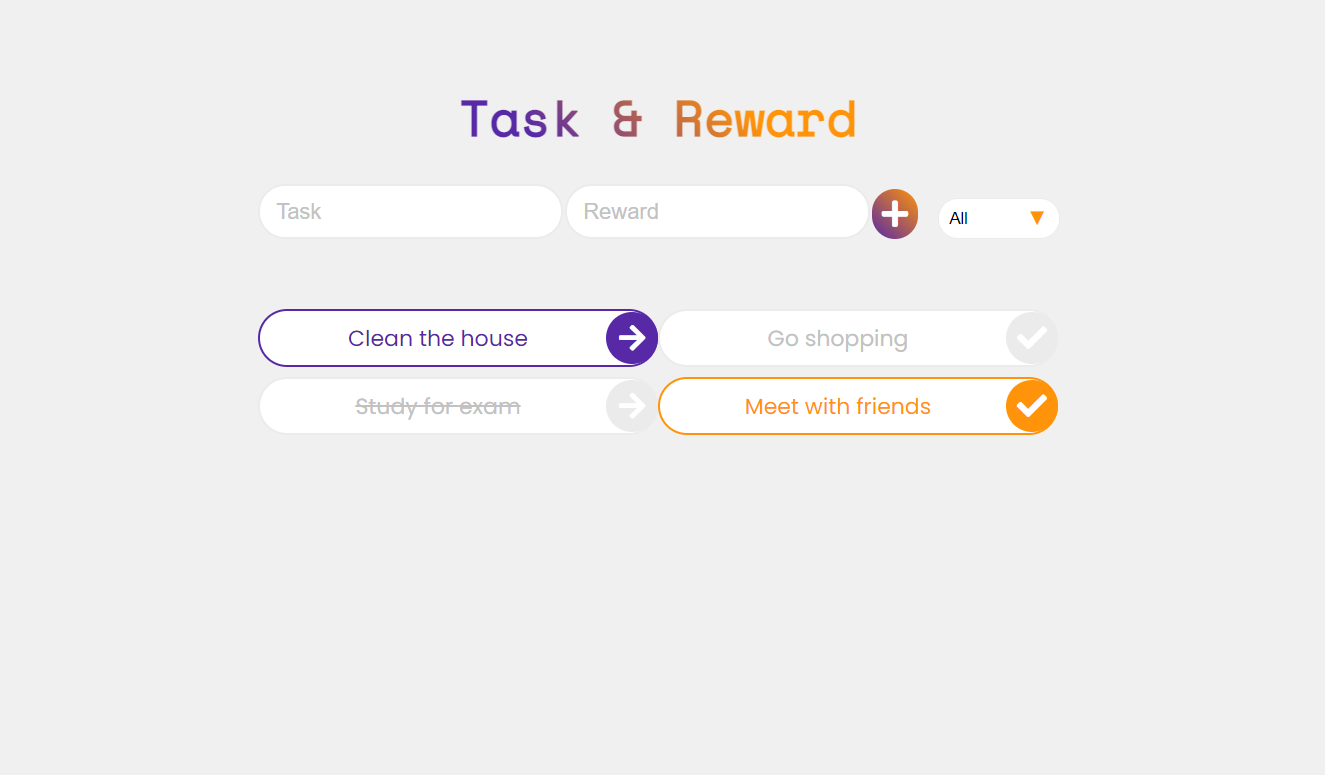
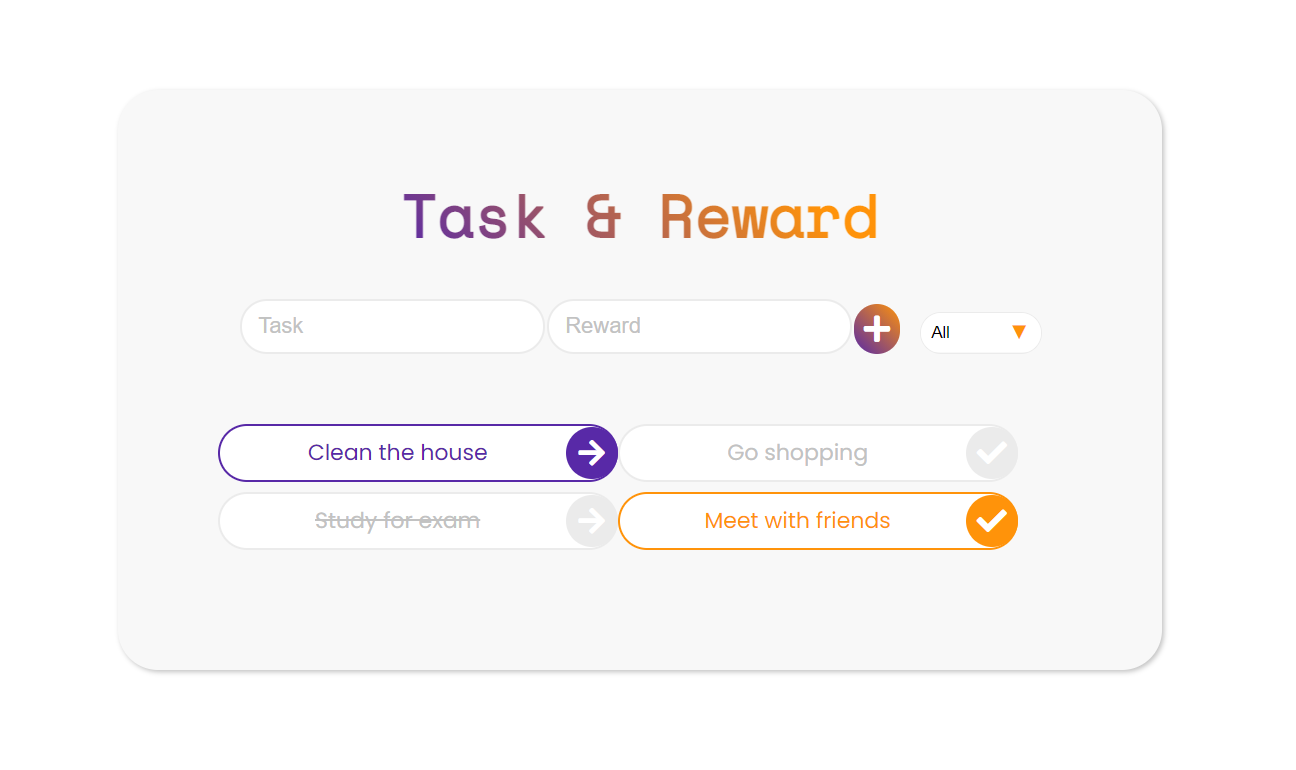
styles change

diff --git a/index.html b/index.html
@@ -21,55 +21,56 @@
   </head>
 
   <body>
-    <h1>Task & Reward</h1>
-    <form>
-      <input
-        type="text"
-        name="inputTask"
-        placeholder="Task"
-        class="inputTask"
-      />
+    <div class="container">
+      <h1>Task & Reward</h1>
+      <form>
+        <input
+          type="text"
+          name="inputTask"
+          placeholder="Task"
+          class="inputTask"
+        />
 
-      <input
-        type="text"
-        name="inputAward"
-        placeholder="Reward"
-        class="inputReward"
-      />
+        <input
+          type="text"
+          name="inputAward"
+          placeholder="Reward"
+          class="inputReward"
+        />
 
-      <button type="submit"><i class="fas fa-plus"></i></button>
-      <div class="selectContainer">
-        <select name="filter" class="filter">
-          <option value="All">All</option>
-          <option value="Tasks">Tasks</option>
-          <option value="Rewards">Rewards</option>
-        </select>
-      </div>
-    </form>
+        <button type="submit"><i class="fas fa-plus"></i></button>
+        <div class="selectContainer">
+          <select name="filter" class="filter">
+            <option value="All">All</option>
+            <option value="Tasks">Tasks</option>
+            <option value="Rewards">Rewards</option>
+          </select>
+        </div>
+      </form>
 
-    <ul class="list">
-      <li>
-        <span class="itemTask">Clean the house</span
-        ><button class="btnTask" type="button">
-          <i class="fas fa-arrow-right"></i>
-        </button>
-        <span class="itemReward incompleted">Go shopping</span>
-        <button class="btnReward btnDisabled" type="button" disabled>
-          <i class="fas fa-check"></i>
-        </button>
-      </li>
-      <li class="taskDone">
-        <span class="itemTask completed">Study for exam</span
-        ><button class="btnTask btnDisabled" type="button">
-          <i class="fas fa-arrow-right"></i>
-        </button>
-        <span class="itemReward">Meet with friends</span>
-        <button class="btnReward" type="button">
-          <i class="fas fa-check"></i>
-        </button>
-      </li>
-    </ul>
-
+      <ul class="list">
+        <li>
+          <span class="itemTask">Clean the house</span
+          ><button class="btnTask" type="button">
+            <i class="fas fa-arrow-right"></i>
+          </button>
+          <span class="itemReward incompleted">Go shopping</span>
+          <button class="btnReward btnDisabled" type="button" disabled>
+            <i class="fas fa-check"></i>
+          </button>
+        </li>
+        <li class="taskDone">
+          <span class="itemTask completed">Study for exam</span
+          ><button class="btnTask btnDisabled" type="button">
+            <i class="fas fa-arrow-right"></i>
+          </button>
+          <span class="itemReward">Meet with friends</span>
+          <button class="btnReward" type="button">
+            <i class="fas fa-check"></i>
+          </button>
+        </li>
+      </ul>
+    </div>
     <script src="./script.js"></script>
   </body>
 </html>

diff --git a/styles.css b/styles.css
@@ -1,10 +1,10 @@
 @import url(https://cdnjs.cloudflare.com/ajax/libs/font-awesome/5.15.1/css/all.min.css);
-@import url(https://fonts.googleapis.com/css2?family=Poppins:wght@400;500&family=Space+Mono&display=swap);
+@import url("https://fonts.googleapis.com/css2?family=Poppins:wght@400;500&family=Space+Mono&display=swap");
 
 :root {
   --orange: #ff930a;
   --violet: #5829a7;
-  --backgroundColor: #f0f0f0;
+  --backgroundColor: #f8f8f8;
   --lightGrey: #ebebeb;
   --medGrey: #c2c2c2;
 }
@@ -18,18 +18,27 @@
 }
 
 body {
-  background-color: var(--backgroundColor);
+  background-color: white;
   font-family: "Poppins", sans-serif;
   font-weight: 400;
   min-height: 100vh;
+  height: 100%;
   display: flex;
   align-items: center;
+  justify-content: center;
   flex-direction: column;
 }
+.container {
+  box-shadow: 2px 2px 4px var(--medGrey);
+  padding: 4rem 5rem 6rem 5rem;
+  border-radius: 2rem;
+  background-color: var(--backgroundColor);
+}
 h1 {
-  margin-top: 5rem;
+  text-align: center;
+  margin-bottom: 0.5rem;
   font-family: "Space Mono", monospace;
-  font-size: 2.5rem;
+  font-size: 3rem;
   background: -webkit-linear-gradient(
     45deg,
     var(--violet) 20%,
